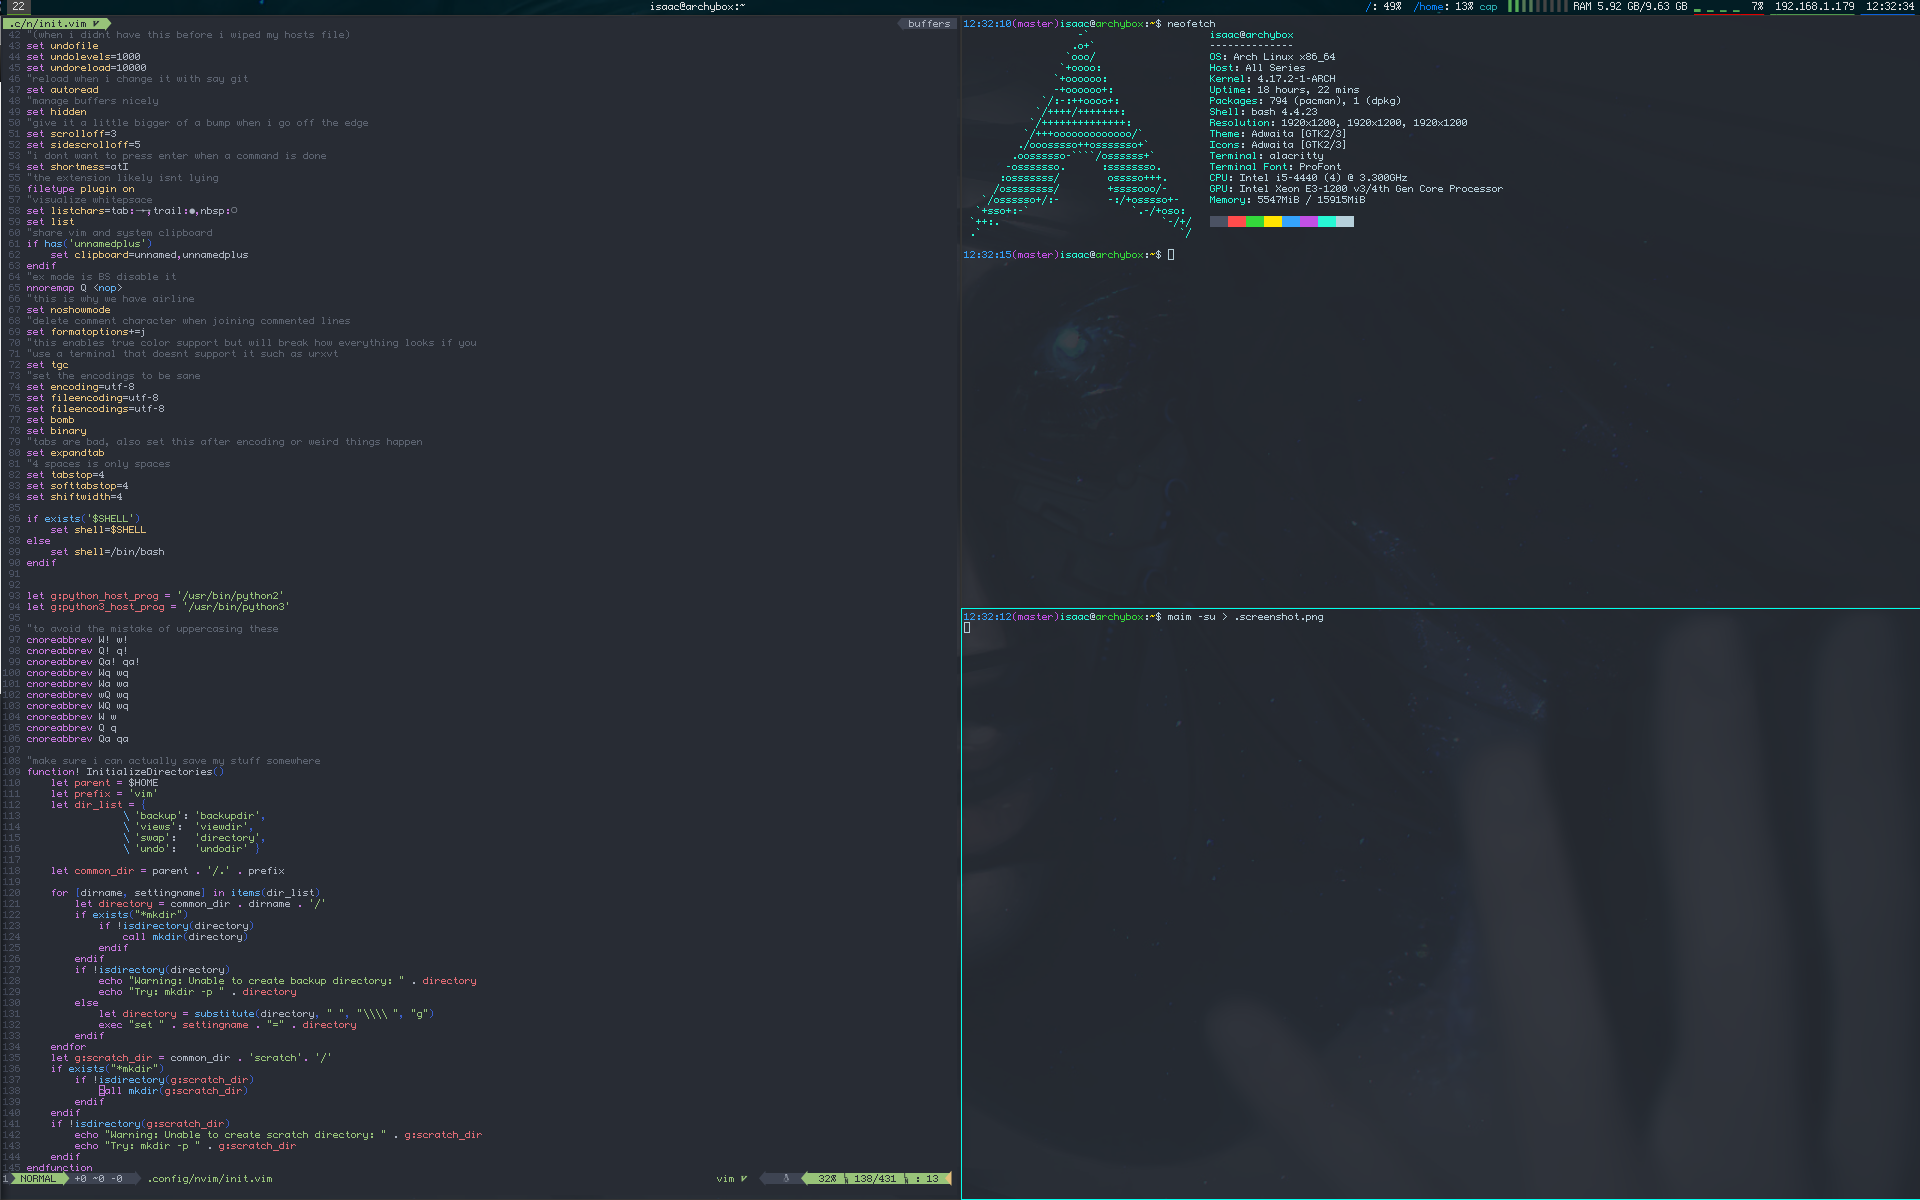
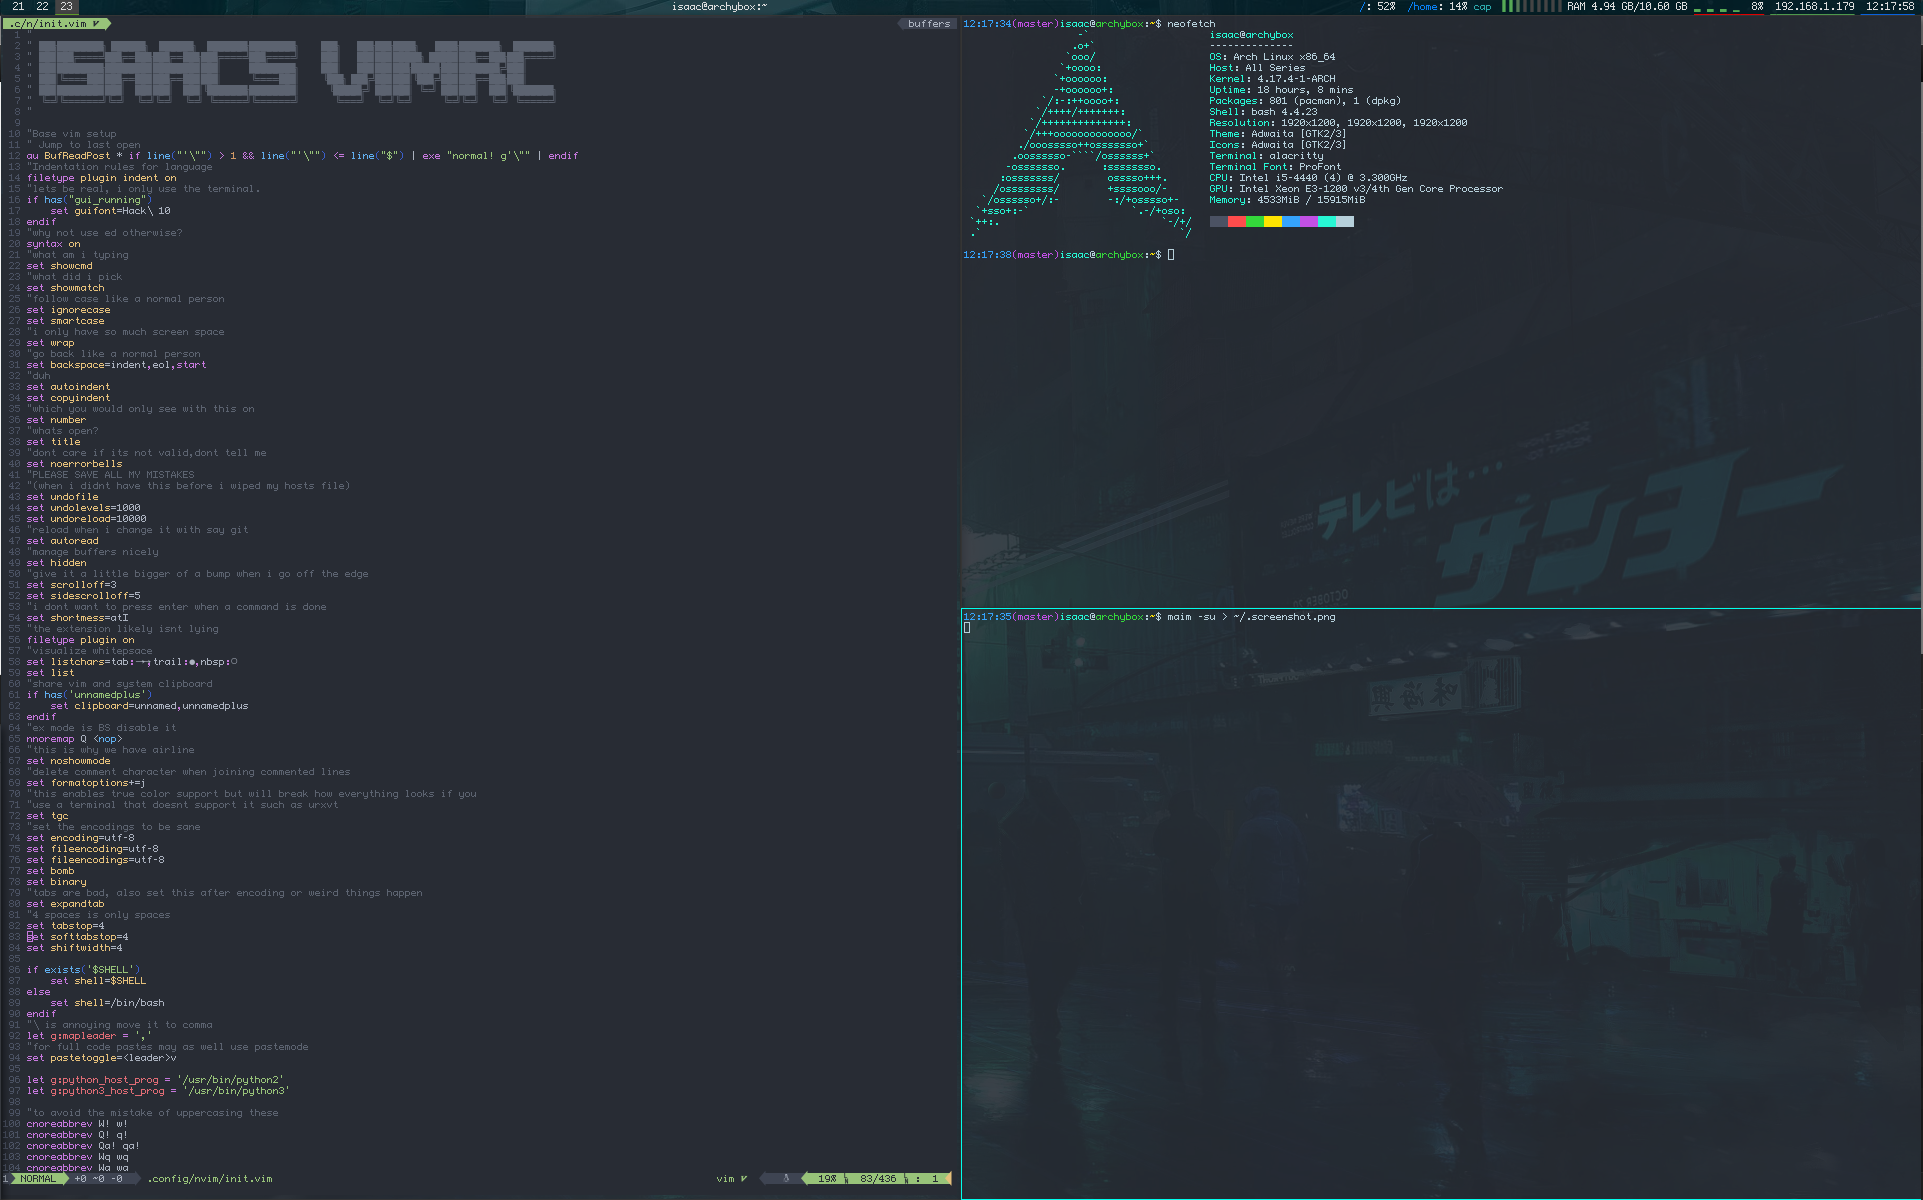
updated screenshot and readme

diff --git a/README.md b/README.md
@@ -33,4 +33,4 @@ these files were also made by reading a lot of others and ive added links to sou
   - launcher: [rofi](https://github.com/DaveDavenport/rofi)
   - compositor: [compton](https://github.com/chjj/compton)
   - lock: [custom similar to i3lock-fancy](https://github.com/isaacmorneau/dotfiles/blob/master/.local/bin/lock)
-  - wallpaper: some cyberpunk wallpaper i found in the wallpaper channel of the nixnest discord
+  - wallpaper: some cyberpunk wallpaper i found on /r/cyberpunk
